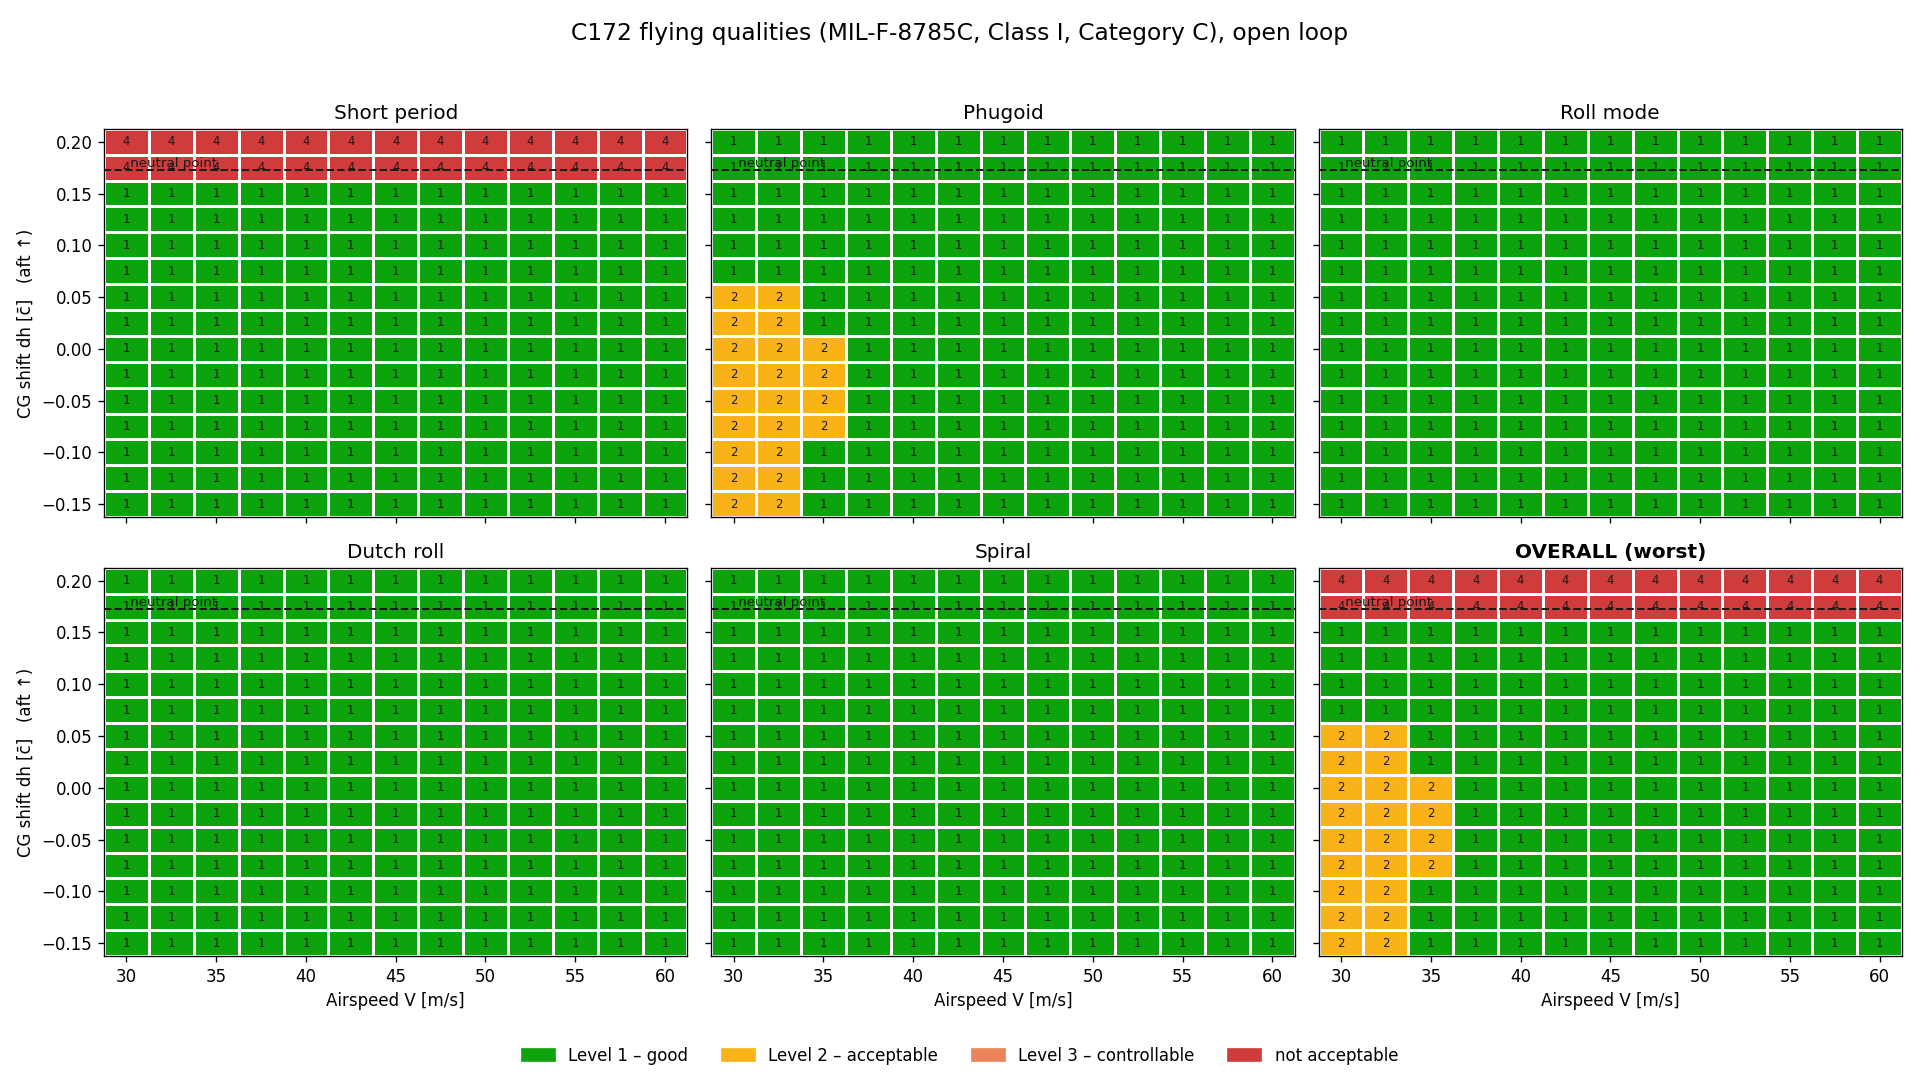
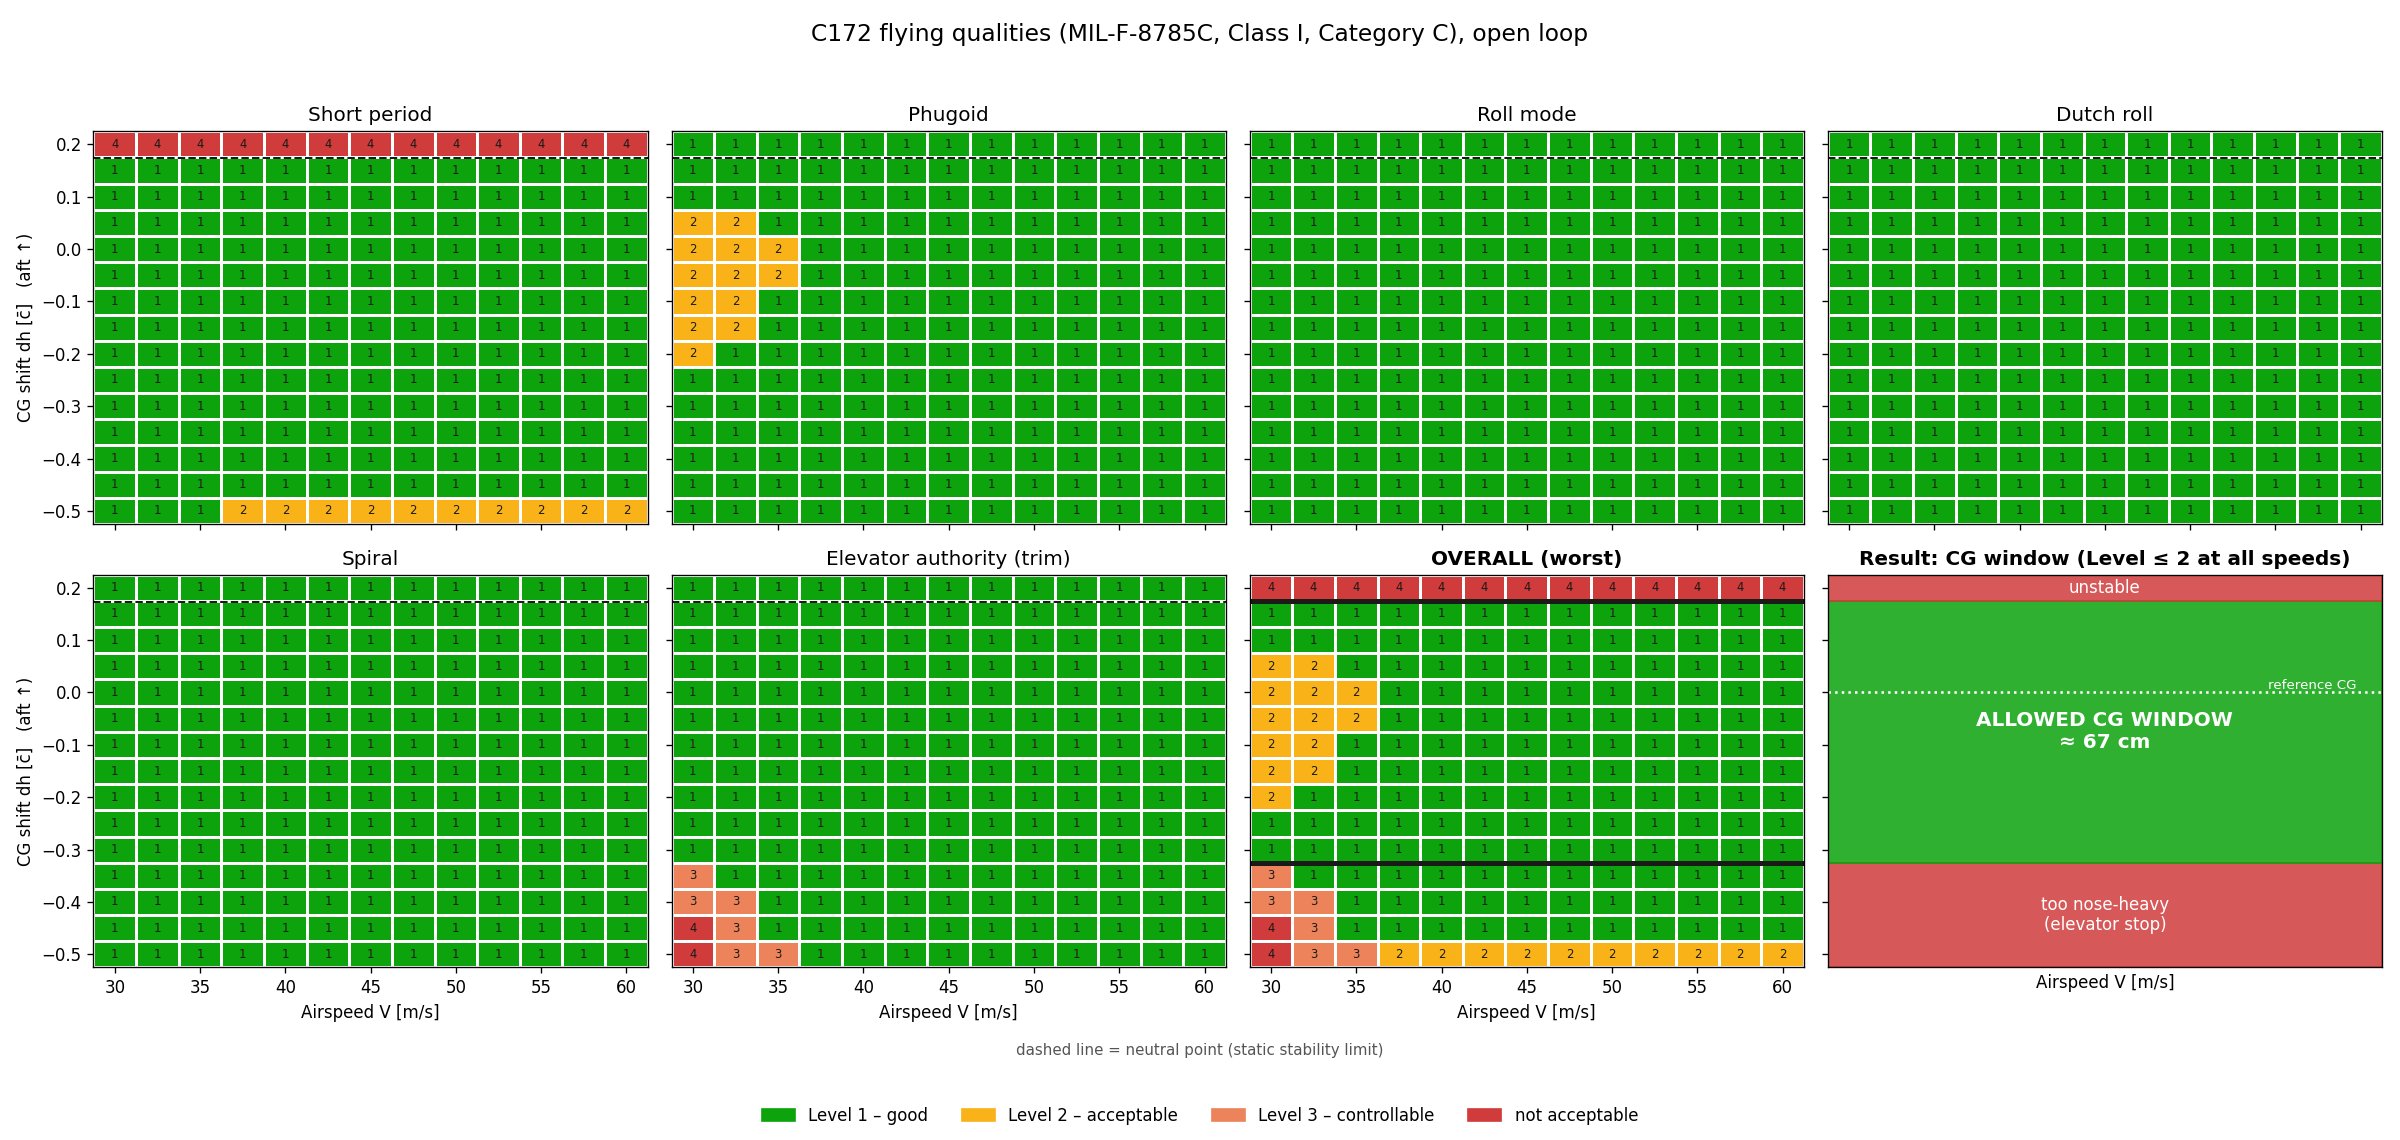
Complete CG window: elevator authority check

diff --git a/src/aircraft/level_map.py b/src/aircraft/level_map.py
@@ -14,8 +14,24 @@ from modes import identify_modes
 from criteria import evaluate
 
 MODES = ["short_period", "phugoid", "roll", "dutch_roll", "spiral"]
+CHECKS = MODES + ["elevator"]
 TITLES = {"short_period": "Short period", "phugoid": "Phugoid", "roll": "Roll mode",
-          "dutch_roll": "Dutch roll", "spiral": "Spiral", "overall": "OVERALL (worst)"}
+          "dutch_roll": "Dutch roll", "spiral": "Spiral",
+          "elevator": "Elevator authority (trim)", "overall": "OVERALL (worst)"}
+
+# Own design assumption (not from MIL-F-8785C): keep at least this much elevator
+# travel in reserve for manoeuvring and gusts beyond the trim deflection.
+ELEVATOR_RESERVE = np.deg2rad(5.0)
+
+
+def level_elevator(delta_e_trim):
+    """1 = enough reserve, 3 = trimmable but reserve < 5°, 4 = beyond the stop."""
+    lo, hi = p.delta_e_min, p.delta_e_max_6dof
+    if delta_e_trim < lo or delta_e_trim > hi:
+        return 4
+    if delta_e_trim < lo + ELEVATOR_RESERVE or delta_e_trim > hi - ELEVATOR_RESERVE:
+        return 3
+    return 1
 
 # Status colours: Level 1 good, 2 warning, 3 serious, 4 critical (not acceptable)
 LEVEL_COLORS = ["#0ca30c", "#fab219", "#ec835a", "#d03b3b"]
@@ -25,18 +41,21 @@ NORM = BoundaryNorm([0.5, 1.5, 2.5, 3.5, 4.5], CMAP.N)
 
 def level_grid(V_values, dh_values, category="B"):
     """Return {mode: 2D array of levels} with shape (len(dh), len(V))."""
-    grids = {m: np.full((len(dh_values), len(V_values)), 4) for m in MODES + ["overall"]}
+    grids = {m: np.full((len(dh_values), len(V_values)), 4) for m in CHECKS + ["overall"]}
     for i, dh in enumerate(dh_values):
         for j, V in enumerate(V_values):
             p.dh_cg = dh
             try:
-                A, _ = linearize_6dof(*trim_6dof(V))
+                x0, c0 = trim_6dof(V)
+                A, _ = linearize_6dof(x0, c0)
                 levels, overall = evaluate(identify_modes(A, V), category)
+                levels["elevator"] = level_elevator(c0[0])
+                overall = max(overall, levels["elevator"])
             except (RuntimeError, KeyError, ValueError):
                 continue                             # no trim / mode missing -> stays Level 4
             finally:
                 p.dh_cg = 0.0
-            for m in MODES:
+            for m in CHECKS:
                 grids[m][i, j] = levels[m]
             grids["overall"][i, j] = overall
     return grids
@@ -44,8 +63,8 @@ def level_grid(V_values, dh_values, category="B"):
 
 def plot_maps(grids, V_values, dh_values, category, filename):
     dh_np = -p.Cm_alpha / p.CL_alpha
-    fig, axes = plt.subplots(2, 3, figsize=(16, 9), sharex=True, sharey=True)
-    for ax, key in zip(axes.flat, MODES + ["overall"]):
+    fig, axes = plt.subplots(2, 4, figsize=(20, 9.5), sharex=True, sharey=True)
+    for ax, key in zip(axes.flat, CHECKS + ["overall"]):
         g = grids[key]
         ax.pcolormesh(V_values, dh_values, g, cmap=CMAP, norm=NORM,
                       shading="nearest", edgecolors="white", linewidth=1.5)
@@ -53,26 +72,53 @@ def plot_maps(grids, V_values, dh_values, category, filename):
             for j, V in enumerate(V_values):
                 ax.text(V, dh, str(g[i, j]), ha="center", va="center", fontsize=7, color="#1a1a19")
         ax.axhline(dh_np, color="#1a1a19", ls="--", lw=1.2)
-        ax.text(V_values[0], dh_np, " neutral point", va="bottom", fontsize=8, color="#1a1a19")
         ax.set_title(TITLES[key], fontweight="bold" if key == "overall" else "normal")
+
+    # Allowed CG window = rows where every speed is Level <= 2 overall
+    ok_rows = [dh for i, dh in enumerate(dh_values) if np.all(grids["overall"][i] <= 2)]
+    ax_all, ax_win = axes.flat[6], axes.flat[7]
+    step = dh_values[1] - dh_values[0]
+    if ok_rows:
+        lo, hi = min(ok_rows) - step / 2, max(ok_rows) + step / 2
+        for y in (lo, hi):
+            ax_all.axhline(y, color="#1a1a19", lw=3)
+
+        # Summary panel: the CG window as one bar
+        ax_win.axhspan(dh_values[0] - step / 2, lo, color=LEVEL_COLORS[3], alpha=0.85)
+        ax_win.axhspan(lo, hi, color=LEVEL_COLORS[0], alpha=0.85)
+        ax_win.axhspan(hi, dh_values[-1] + step / 2, color=LEVEL_COLORS[3], alpha=0.85)
+        xm = (V_values[0] + V_values[-1]) / 2
+        ax_win.text(xm, (lo + hi) / 2, f"ALLOWED CG WINDOW\n≈ {(max(ok_rows) - min(ok_rows)) * p.c_bar * 100:.0f} cm",
+                    ha="center", va="center", fontsize=12, fontweight="bold", color="white")
+        ax_win.text(xm, (dh_values[0] - step / 2 + lo) / 2, "too nose-heavy\n(elevator stop)",
+                    ha="center", va="center", fontsize=10, color="white")
+        ax_win.text(xm, (hi + dh_values[-1] + step / 2) / 2, "unstable",
+                    ha="center", va="center", fontsize=10, color="white")
+        ax_win.axhline(0, color="white", ls=":", lw=1.5)
+        ax_win.text(V_values[-1], 0, "reference CG ", ha="right", va="bottom", fontsize=8, color="white")
+        ax_win.set_title("Result: CG window (Level ≤ 2 at all speeds)", fontweight="bold")
+        ax_win.tick_params(labelbottom=False, bottom=False)
+    fig.text(0.5, 0.075, "dashed line = neutral point (static stability limit)", ha="center",
+             fontsize=9, color="#555555")
     for ax in axes[1]:
         ax.set_xlabel("Airspeed V [m/s]")
     for ax in axes[:, 0]:
         ax.set_ylabel("CG shift dh [c̄]   (aft ↑)")
+
 
     handles = [plt.Rectangle((0, 0), 1, 1, color=c) for c in LEVEL_COLORS]
     labels = ["Level 1 – good", "Level 2 – acceptable", "Level 3 – controllable", "not acceptable"]
     fig.legend(handles, labels, loc="lower center", ncol=4, frameon=False)
     fig.suptitle(f"C172 flying qualities (MIL-F-8785C, Class I, Category {category}), open loop",
                  fontsize=14)
-    plt.tight_layout(rect=(0, 0.05, 1, 0.96))
+    plt.tight_layout(rect=(0, 0.09, 1, 0.96))
     plt.savefig(filename, dpi=120)
 
 
 if __name__ == "__main__":
     os.makedirs("results", exist_ok=True)
     V_values = np.arange(30.0, 60.01, 2.5)
-    dh_values = np.round(np.arange(-0.15, 0.201, 0.025), 3)
+    dh_values = np.round(np.arange(-0.50, 0.201, 0.05), 3)
 
     for category in ["B", "C"]:
         grids = level_grid(V_values, dh_values, category)
@@ -80,4 +126,9 @@ if __name__ == "__main__":
         n = grids["overall"].size
         print(f"Category {category}: " + ", ".join(
             f"Level {k}: {np.sum(grids['overall'] == k)}/{n}" for k in (1, 2, 3, 4)))
+        ok = [dh for i, dh in enumerate(dh_values) if np.all(grids["overall"][i] <= 2)]
+        if ok:
+            print(f"  allowed CG window (Level <= 2 over {V_values[0]:.0f}-{V_values[-1]:.0f} m/s): "
+                  f"dh = {min(ok):+.2f} ... {max(ok):+.2f} c_bar  "
+                  f"(= {(max(ok) - min(ok)) * p.c_bar * 100:.0f} cm)")
     plt.show()
